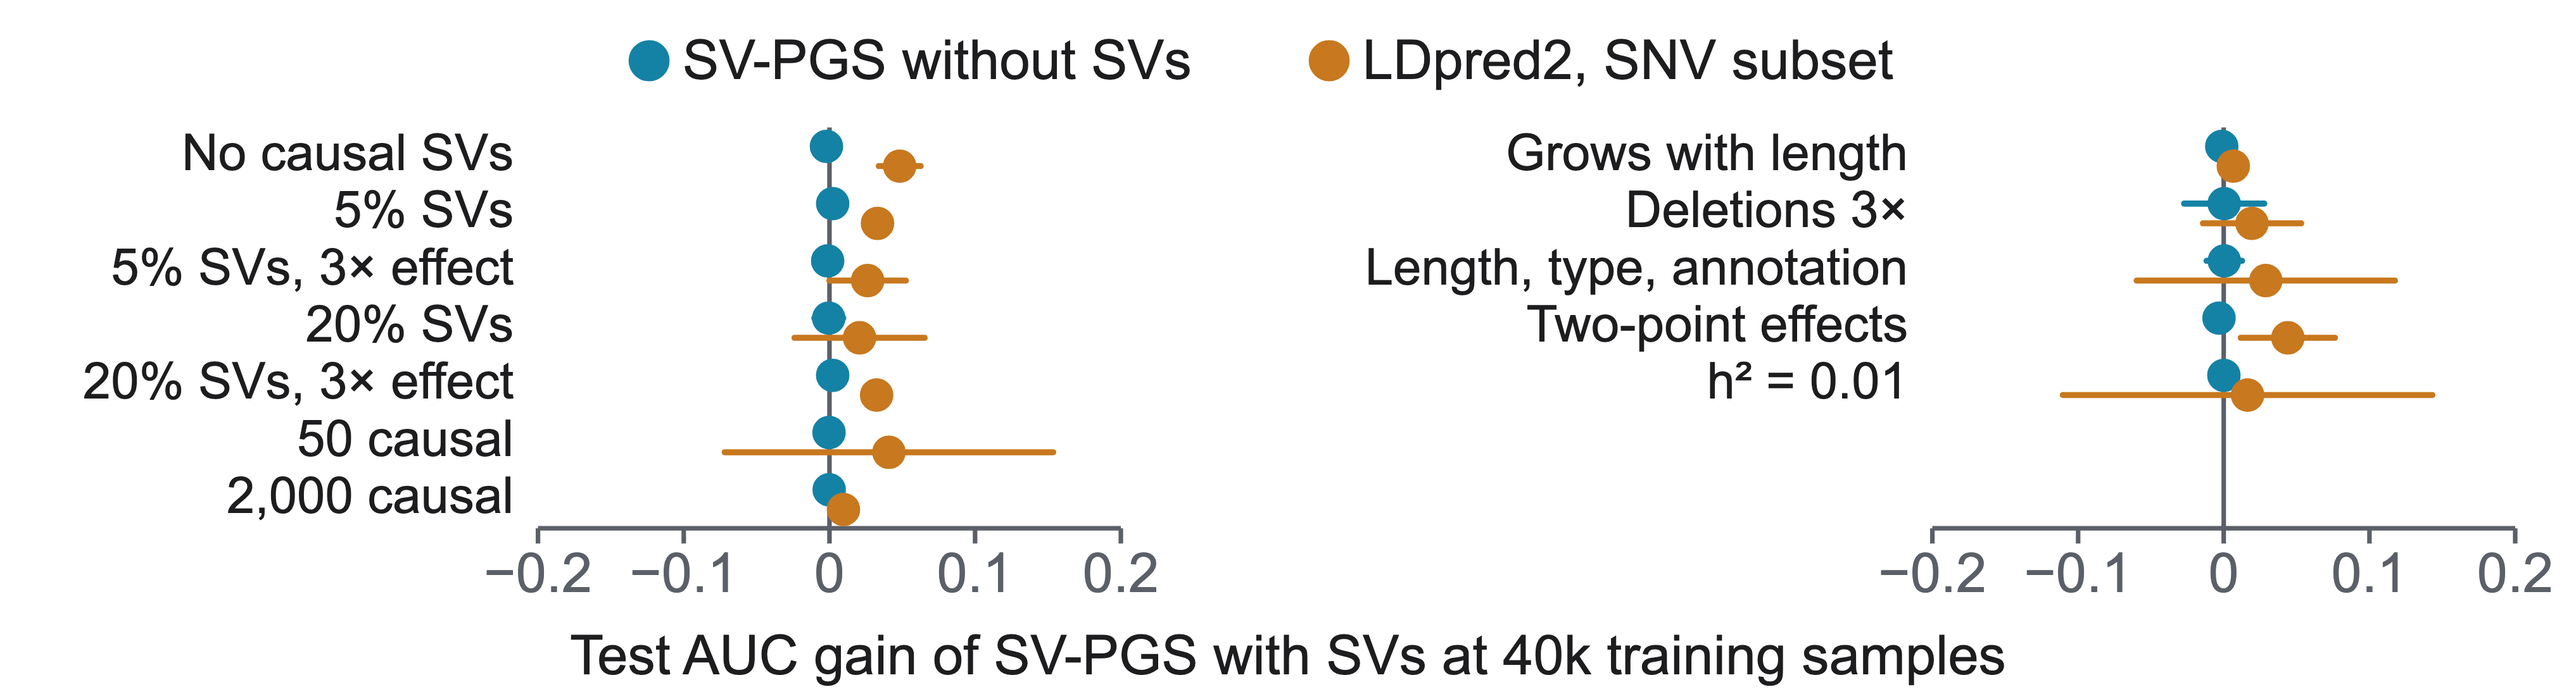
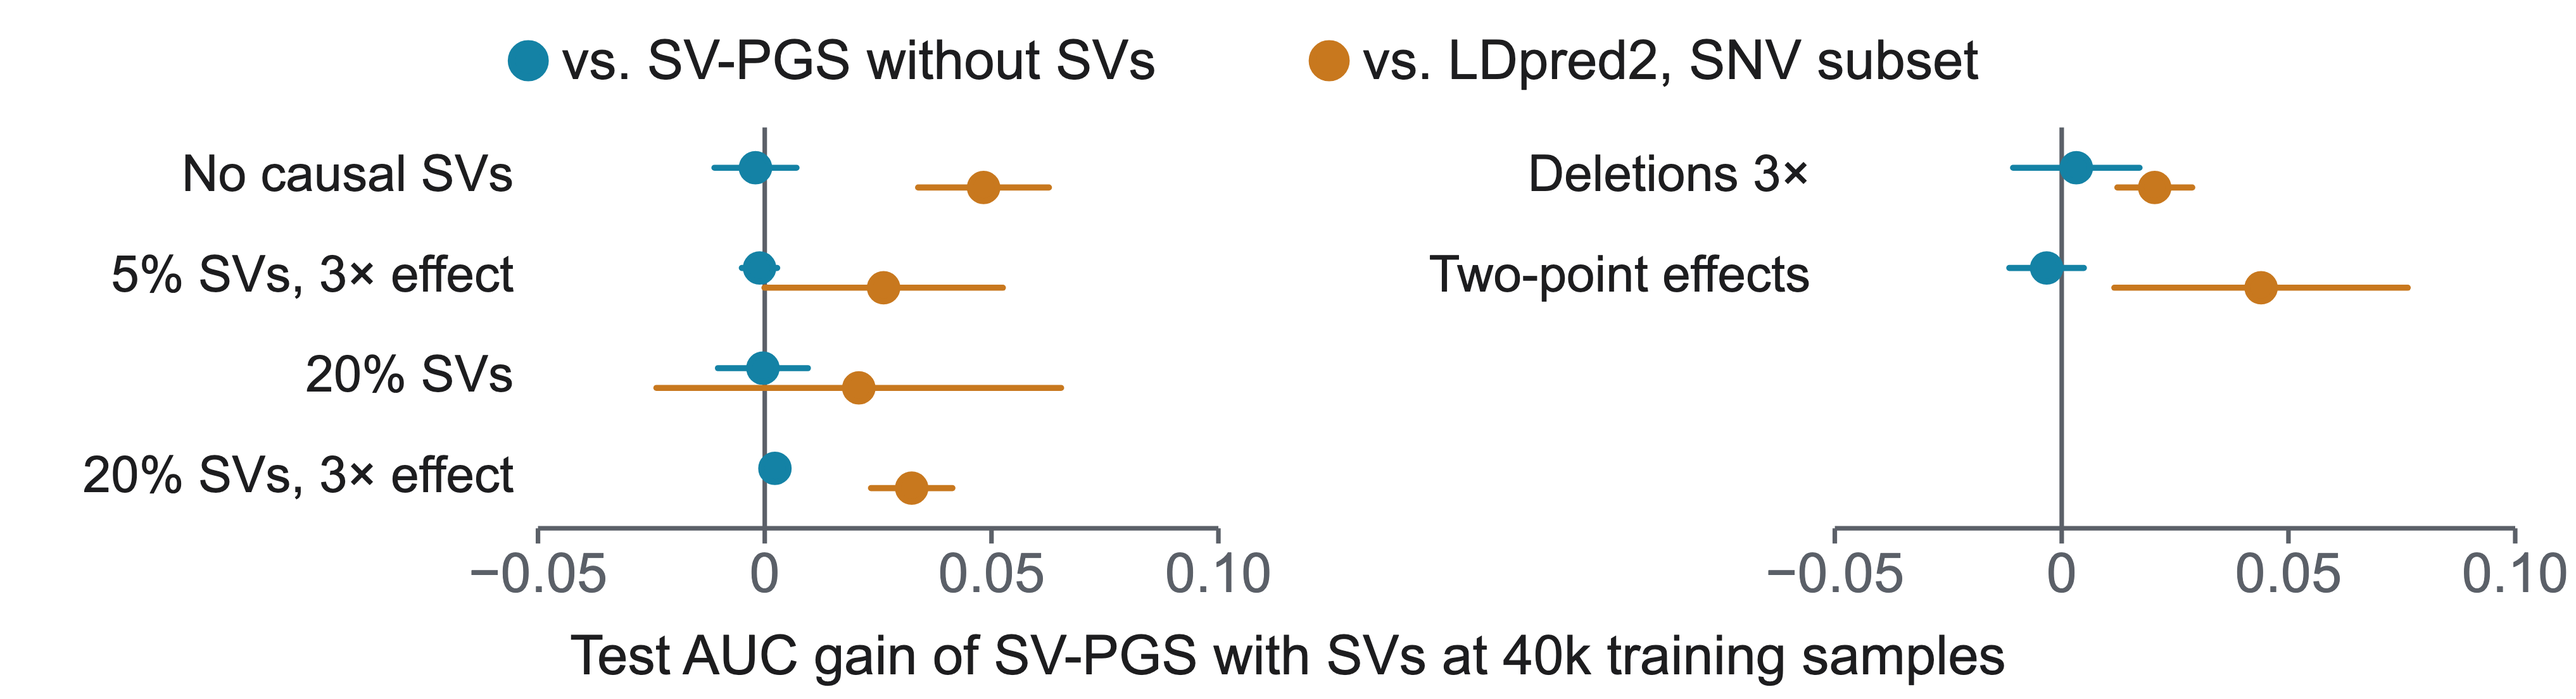
poster figures: a cell is drawn only with 3+ replicates (as the text); the accuracy panels and power series are the three scenarios of the genotype figure (no causal SVs, 20%, 20% at 3x effect); the expected AUC curve spans every planned size; architecture key names the comparator

diff --git a/docs/poster/ashg2026/figures.py b/docs/poster/ashg2026/figures.py
@@ -137,8 +137,28 @@ def tick_text(value: float, step: float, percent: bool = False) -> str:
     return f"{value:.{decimals}f}".replace("-", "−")
 
 
+MIN_REPLICATES = 3
+"""A (point, training size) cell is drawn only with at least this many completed replicates, as build_pptx.py's text."""
+
+
 def sizes(summary: dict, point: str) -> list[str]:
-    return sorted(summary["points"][point]["sizes"], key=int)
+    """The point's training sizes with enough replicates to draw, smallest first."""
+    cells = summary["points"].get(point, {}).get("sizes", {})
+    return sorted((size for size, cell in cells.items() if cell["replicates"] >= MIN_REPLICATES), key=int)
+
+
+def shown_counts(summary: dict, points) -> list[int]:
+    """The training sizes at which any of ``points`` has a drawable cell, or every planned size when none has."""
+    present = {int(size) for point in points for size in sizes(summary, point)}
+    return [count for count in summary["train_counts"] if count in present] or list(summary["train_counts"])
+
+
+def expected_line(summary: dict, point: str) -> dict[int, float]:
+    """The point's analytic expected AUC at every planned training size (older summaries: only at its cells)."""
+    values = summary["points"][point]
+    if "expected_auc" in values:
+        return {int(size): auc for size, auc in values["expected_auc"].items()}
+    return {int(size): cell["expected_auc"] for size, cell in values["sizes"].items()}
 
 
 def finite(values) -> list[float]:
@@ -172,7 +192,7 @@ def spread_labels(wanted: list[float], gap: float, low: float, high: float) -> l
     return result
 
 
-ACCURACY_PANELS = (("null", "No causal SVs"), ("sv_5pct", "5% causal SVs"), ("sv_20pct", "20% causal SVs"))
+ACCURACY_PANELS = (("null", "No causal SVs"), ("sv_20pct", "20% causal SVs"), ("sv_20pct_fold3", "20% causal SVs, 3× effect"))
 ACCURACY_METHODS = (
     # (summary key, key label, colour, filled marker, horizontal offset)
     ("with_sv_auc", "SV-PGS with SVs", TEAL, True, 18.0),
@@ -196,7 +216,9 @@ def accuracy_figure(summary: dict) -> Path:
     left, right, gap = 140.0, 30.0, 55.0
     # a method is keyed only where it has a value: the all-variant LDpred2 arm joined the grid after the others
     shown = [method for method in ACCURACY_METHODS if any(
-        math.isfinite(row.get(method[0], NO_VALUE)[0]) for point, _title in ACCURACY_PANELS for row in summary["points"][point]["sizes"].values())]
+        math.isfinite(summary["points"][point]["sizes"][size].get(method[0], NO_VALUE)[0])
+        for point, _title in ACCURACY_PANELS for size in sizes(summary, point))]
+    counts = shown_counts(summary, [point for point, _title in ACCURACY_PANELS])
     entries = [(label, colour, filled, False) for _key, label, colour, filled, _off in shown]
     # the key, centred over the panels: SV-PGS and the expected accuracy on one line, the LDpred2 arms on a second
     key_lines = [[entry for entry in entries if entry[0].startswith("SV-PGS")] + [("Expected", GREY, None, True)],
@@ -211,10 +233,9 @@ def accuracy_figure(summary: dict) -> Path:
             for key, *_rest in ACCURACY_METHODS:
                 entry = auc_interval(row, key)
                 values += finite([entry["mean"], entry["lower"], entry["upper"]])
-            values.append(row["expected_auc"])
+        values += [auc for count, auc in expected_line(summary, point).items() if count in counts]
     # tick labels at least 52 units (0.52 in) apart
     low, high, step = nice_range(min(values), max(values), steps=(0.005, 0.01, 0.02, 0.025, 0.04, 0.05, 0.1, 0.2), most=int((bottom - top) // 52))
-    counts = summary["train_counts"]
 
     def y(value: float) -> float:
         return bottom - (value - low) / (high - low) * (bottom - top)
@@ -242,7 +263,7 @@ def accuracy_figure(summary: dict) -> Path:
         x0 = left + index * (panel + gap)
 
         def x(count: int) -> float:
-            return x0 + 34 + math.log2(count / counts[0]) / math.log2(counts[-1] / counts[0]) * (panel - 68)
+            return x0 + 34 + math.log2(count / counts[0]) / max(math.log2(counts[-1] / counts[0]), 1.0) * (panel - 68)
 
         parts.append(f'<text class="facet" x="{x0}" y="{top - 22}">{title}</text>')
         parts.append(f'<line x1="{x0}" y1="{bottom}" x2="{x0 + panel}" y2="{bottom}" stroke="{GREY}" stroke-width="3"/>')
@@ -254,11 +275,10 @@ def accuracy_figure(summary: dict) -> Path:
         for count in counts:
             parts.append(f'<line x1="{x(count):.1f}" y1="{bottom}" x2="{x(count):.1f}" y2="{bottom + 10}" stroke="{GREY}" stroke-width="3"/>')
             parts.append(f'<text class="tick" x="{x(count):.1f}" y="{bottom + 44}" text-anchor="middle">{thousands(count)}</text>')
-        if point not in summary["points"]:
-            continue
         rows = summary["points"][point]["sizes"]
         present = sizes(summary, point)
-        expected = " ".join(f"{x(int(size)):.1f},{y(rows[size]['expected_auc']):.1f}" for size in present)
+        line = expected_line(summary, point)
+        expected = " ".join(f"{x(count):.1f},{y(line[count]):.1f}" for count in counts if count in line)
         parts.append(f'<polyline points="{expected}" fill="none" stroke="{GREY}" stroke-width="5" stroke-dasharray="13 9"/>')
         for key, _label, colour, filled, offset in reversed(shown):
             points = [(x(int(size)) + offset, auc_interval(rows[size], key)) for size in present if math.isfinite(rows[size].get(key, NO_VALUE)[0])]
@@ -278,8 +298,6 @@ def accuracy_figure(summary: dict) -> Path:
 POWER_SERIES = (
     ("sv_20pct_fold3", "20% SVs, 3× effect", NAVY),
     ("sv_20pct", "20% SVs", TEAL),
-    ("sv_5pct_fold3", "5% SVs, 3× effect", PURPLE),
-    ("sv_5pct", "5% SVs", AMBER),
     ("null", "No causal SVs", LIGHT),
 )
 
@@ -292,10 +310,10 @@ def power_figure(summary: dict) -> Path:
     w, h = width * 100, height * 100
     left, top, bottom = 128.0, 28.0, h - 112.0
     plot_right = w - 12 - max(text_width(label, 22) for _point, label, _colour in POWER_SERIES) - 40
-    counts = summary["train_counts"]
+    counts = shown_counts(summary, [point for point, *_rest in POWER_SERIES])
 
     def x(count: int) -> float:
-        return left + 26 + math.log2(count / counts[0]) / math.log2(counts[-1] / counts[0]) * (plot_right - left - 52)
+        return left + 26 + math.log2(count / counts[0]) / max(math.log2(counts[-1] / counts[0]), 1.0) * (plot_right - left - 52)
 
     def y(rate: float) -> float:
         return bottom - rate * (bottom - top)
@@ -316,7 +334,8 @@ def power_figure(summary: dict) -> Path:
     for offset_index, (point, label, colour) in enumerate(present):
         offset = (offset_index - (len(present) - 1) / 2) * 9.0
         rows = summary["points"][point]["sizes"]
-        points = [(x(int(size)) + offset, rows[size]["power"]) for size in sizes(summary, point) if rows[size]["power"]["replicates"]]
+        points = [(x(int(size)) + offset, rows[size]["power"]) for size in sizes(summary, point)
+                  if rows[size]["power"]["replicates"] >= MIN_REPLICATES]
         if not points:
             continue
         parts.append('<polyline points="' + " ".join(f"{px:.1f},{y(row['rate']):.1f}" for px, row in points)
@@ -393,7 +412,7 @@ def genotypes_figure(summary: dict) -> Path:
         imputed = summary["points"].get(point, {}).get("sizes", {}).get(largest, {}).get("delta_auc")
         true = true_gains.get(point, {}).get("true")
         rows.append((label, colour, [(entry, filled) for entry, filled in ((imputed, False), (true, True))
-                                     if entry and math.isfinite(entry["mean"])]))
+                                     if entry and entry["replicates"] >= MIN_REPLICATES]))
     values = [0.0] + finite(value for _label, _colour, marks in rows for entry, _filled in marks
                             for value in (entry["mean"], entry["lower"], entry["upper"]))
     low, high, step = nice_range(min(values), max(values), steps=(0.005, 0.01, 0.02, 0.025, 0.05, 0.1), most=4)
@@ -444,20 +463,20 @@ ARCHITECTURES = (
 )
 GAINS = (
     # (summary key, key label, colour, filled marker)
-    ("delta_auc", "SV-PGS without SVs", TEAL, True),
-    ("delta_auc_vs_ldpred2", "LDpred2, SNV subset", AMBER, True),
-    ("delta_auc_vs_ldpred2_allvar", "LDpred2, all classes", AMBER, False),
+    ("delta_auc", "vs. SV-PGS without SVs", TEAL, True),
+    ("delta_auc_vs_ldpred2", "vs. LDpred2, SNV subset", AMBER, True),
+    ("delta_auc_vs_ldpred2_allvar", "vs. LDpred2, all classes", AMBER, False),
 )
 
 
 def architectures_figure(summary: dict, width: float = 16.95, height: float = 4.6) -> Path:
     """For every simulated architecture, at its largest training size: the mean test AUC gain of SV-PGS with SVs over
     each other method, with its 95% interval over replicates, on one axis shared by both blocks of architectures."""
-    blocks = [[(point, label) for point, label in block if point in summary["points"]] for block in ARCHITECTURES]
+    blocks = [[(point, label) for point, label in block if sizes(summary, point)] for block in ARCHITECTURES]
     blocks = [block for block in blocks if block]
     rows = [row for block in blocks for row in block]
     cells = {point: summary["points"][point]["sizes"][sizes(summary, point)[-1]] for point, _label in rows}
-    gains = [gain for gain in GAINS if any(math.isfinite(cells[point].get(gain[0], {}).get("mean", math.nan)) for point, _label in rows)]
+    gains = [gain for gain in GAINS if any(cells[point].get(gain[0], {}).get("replicates", 0) >= MIN_REPLICATES for point, _label in rows)]
     w, h = width * 100, height * 100
     key_y, top, bottom = 40.0, 84.0, h - 112.0
     pitch = (bottom - top) / max(len(block) for block in blocks)
@@ -498,7 +517,7 @@ def architectures_figure(summary: dict, width: float = 16.95, height: float = 4.
             parts.append(f'<text class="row" x="{x0 - 16:.1f}" y="{cy + 9:.1f}" text-anchor="end">{label}</text>')
             for gain_index, (key, _label, colour, filled) in enumerate(gains):
                 entry = cells[point].get(key, {})
-                if not math.isfinite(entry.get("mean", math.nan)):
+                if entry.get("replicates", 0) < MIN_REPLICATES:
                     continue
                 y = cy + (gain_index - (len(gains) - 1) / 2) * 13.0
                 if math.isfinite(entry["lower"]):
@@ -514,11 +533,13 @@ def simulation_figures(summary: dict | None) -> list[Path]:
     """Each simulation figure whose grid points have results; a placeholder for the others."""
     made = []
     points = summary["points"] if summary else {}
-    made.append(accuracy_figure(summary) if all(point in points for point, _title in ACCURACY_PANELS) else placeholder_figure("ph_sim_accuracy"))
-    made.append(power_figure(summary) if "null" in points and any(point in points for point, *_rest in POWER_SERIES[:-1]) else placeholder_figure("ph_sim_power"))
+    made.append(accuracy_figure(summary) if summary and all(sizes(summary, point) for point, _title in ACCURACY_PANELS)
+                else placeholder_figure("ph_sim_accuracy"))
+    made.append(power_figure(summary) if summary and all(sizes(summary, point) for point, *_rest in POWER_SERIES)
+                else placeholder_figure("ph_sim_power"))
     made.append(genotypes_figure(summary) if summary and "r2_by_frequency" in summary.get("genotype_accuracy", {})
                 else placeholder_figure("ph_sim_genotypes"))
-    if summary and len(points) > 1:
+    if summary and sum(bool(sizes(summary, point)) for point in points) > 1:
         made.append(architectures_figure(summary))
     else:
         # The builder includes this optional panel by filename: never reuse a previous run's result.

diff --git a/docs/poster/ashg2026/simulation.py b/docs/poster/ashg2026/simulation.py
@@ -138,7 +138,8 @@ def collect(local: Path = LOCAL, target: Path = SUMMARY) -> Path:
                                 for arm in ("snv_indel", "with_sv", "ldpred2_auto", "ldpred2_allvar")},
                 "expected_auc": expected_auc(point, train_count),
             }
-        points[point] = {"setting": setting(point), "sizes": by_size}
+        points[point] = {"setting": setting(point), "sizes": by_size,
+                         "expected_auc": {str(count): expected_auc(point, count) for count in TRAIN_COUNTS}}
     summary = {
         "source": "benchmarks/power/grid.py on bench-sim v7 chr22 (Beagle arm), MSI",
         "tasks": len(results),
